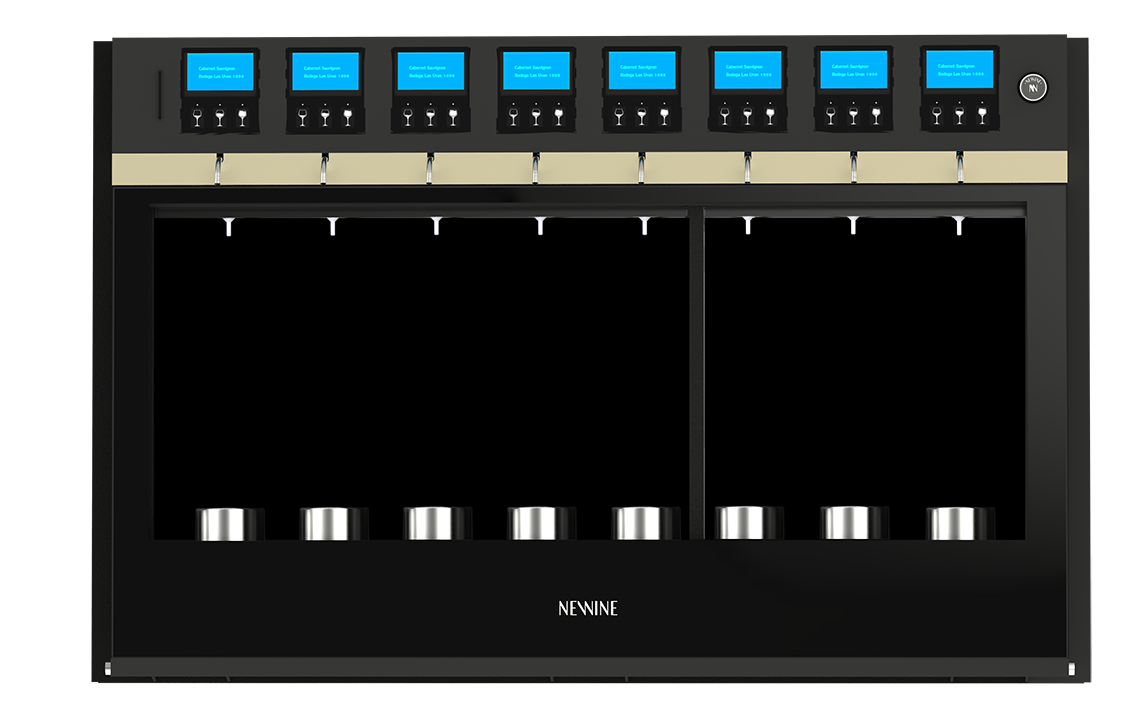
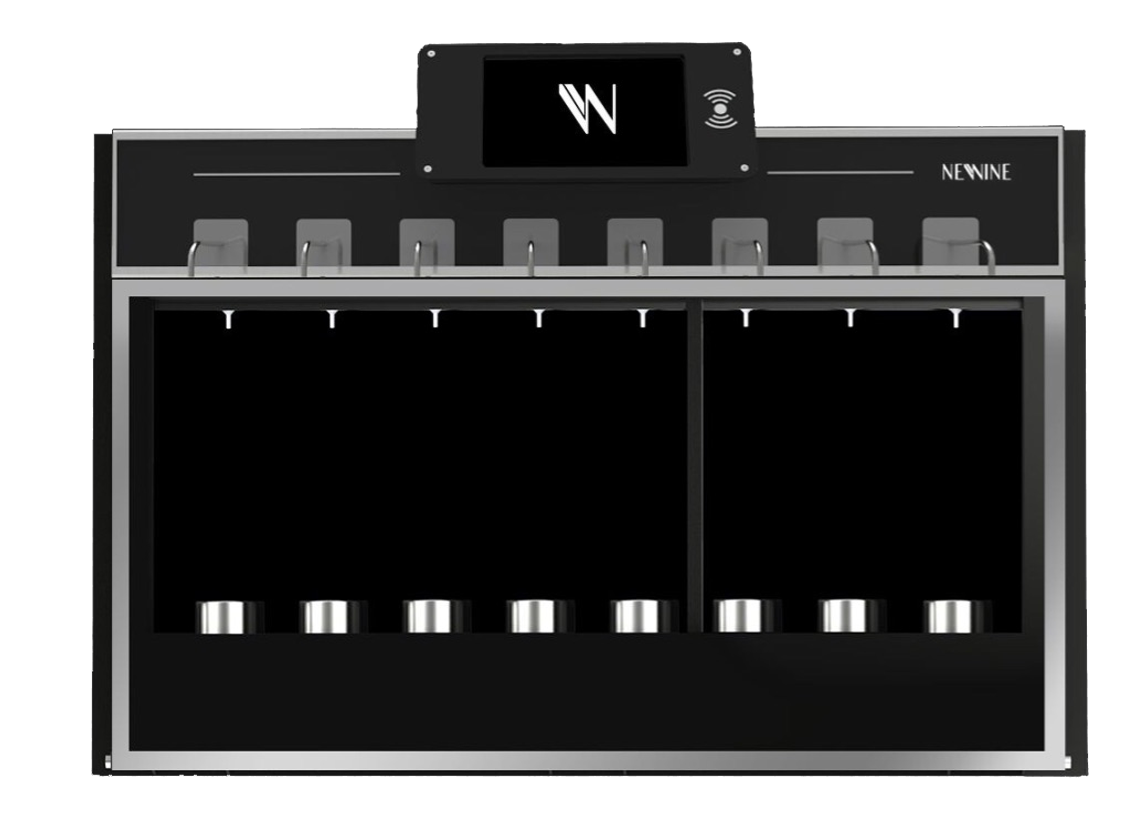
cambio vistas de los dispensers

diff --git a/public/assets/css/newine.css b/public/assets/css/newine.css
@@ -120,22 +120,22 @@ a:active {text-decoration:none;}
   margin-left: 18px !important;
 }
 .volume-outer-8.bottle-index-6{
-  margin-left: 12px !important;
+  margin-left: 24px !important;
 }
 .volume-outer-8.bottle-index-5{
-  margin-left: 6px !important;
+  margin-left: 30px !important;
 }
 .volume-outer-8.bottle-index-4{
-  margin-left: 1px !important;
+  margin-left: 37px !important;
 }
 .volume-outer-8.bottle-index-3{
-  margin-left: -5px !important;
+  margin-left: 43px !important;
 }
 .volume-outer-8.bottle-index-2{
-  margin-left: -10px !important;
+  margin-left: 48px !important;
 }
 .volume-outer-8.bottle-index-1{
-  margin-left: -14px !important;
+  margin-left: 53px !important;
 }
 
 .dispenser-fg-4 div:first-child {
@@ -143,7 +143,7 @@ a:active {text-decoration:none;}
 }
 
 .dispenser-fg-8 div:first-child {
-  margin-left: 24px;
+  margin-left: 14px;
 }
 
 
@@ -315,12 +315,12 @@ a:active {text-decoration:none;}
 /*MEDIA SIZE*/
  @media(max-width : 767px) {
     .volume-outer-8 {
-      margin-top: 148px;
+      margin-top: 203px;
     }
   }
 @media (min-width: 768px) { /*Para monitores xs*/
   .volume-outer-8 {
-    margin-top: 148px;
+    margin-top: 202px;
   }
 
   .volume-outer-8.bottle-index-8 {
@@ -379,12 +379,12 @@ a:active {text-decoration:none;}
     height: 170px;
     overflow: hidden;
     margin-left: -5px;
-    margin-top: 148px;  
+    margin-top: 203px;  
     position: absolute;
     z-index: 0;
     background-color: #EEE;
   }
   .dispenser-fg-8 div:first-child {
-    margin-left: 23px;
+    margin-left: 14px;
   }
 }

diff --git a/models/dispenser.rb b/models/dispenser.rb
@@ -1,5 +1,5 @@
 class Dispenser < ActiveRecord::Base
-	has_many :bottle_holders, :dependent => :destroy
+	has_many :bottle_holders,  -> { order(dispenser_index: :asc) }, :dependent => :destroy
 	has_many :temperature_controls, :dependent => :destroy
 	has_and_belongs_to_many :special_events
 
